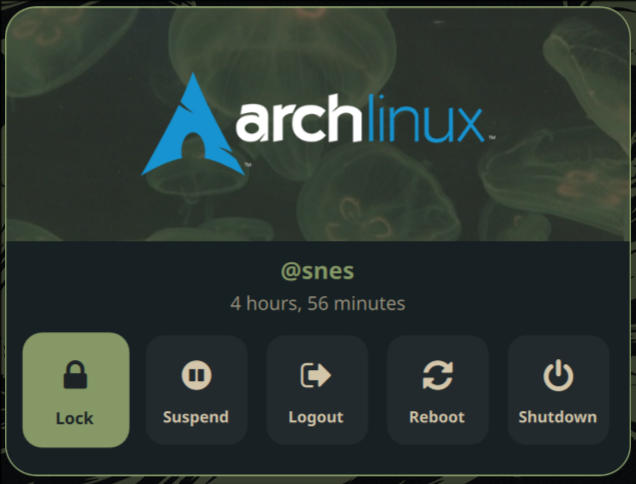
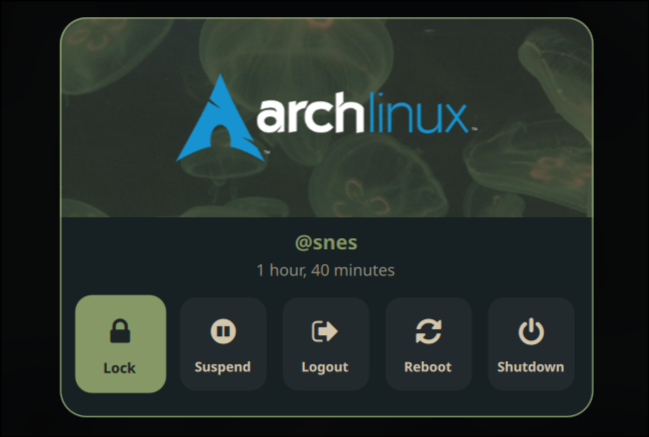
add improvements to the powermenu

diff --git a/.config/quickshell/snes-hub/bar/PowerMenu.qml b/.config/quickshell/snes-hub/bar/PowerMenu.qml
@@ -90,62 +90,64 @@ PanelWindow {
         width: 400
         height: 300
         
-        anchors.centerIn: parent
+        // To prevent fractional blur
+        x: Math.round((parent.width - width) / 2)
+        y: Math.round(((parent.height - height) / 2) + ((1 - Math.min(1, intro)) * 60))
+        
         focus: true
 
         // Entry animation progress
         property real intro: 0
         property real introBlur: 18
 
-    SequentialAnimation {
-        running: true
+        SequentialAnimation {
+            running: true
 
-        ParallelAnimation {
+            ParallelAnimation {
+                // Main intro: fade/slide/scale driver
+                PropertyAnimation {
+                    target: root
+                    property: "intro"
+                    from: 0
+                    to: 1
+                    duration: 260
+                    easing.type: Easing.OutExpo
+                }
 
-            // Main intro: fade/slide/scale driver
+                // Blur clears as it comes in
+                PropertyAnimation {
+                    target: root
+                    property: "introBlur"
+                    from: 18
+                    to: 0
+                    duration: 260
+                    easing.type: Easing.OutCubic
+                }
+            }
+
             PropertyAnimation {
                 target: root
                 property: "intro"
-                from: 0
-                to: 1
-                duration: 260
-                easing.type: Easing.OutExpo
+                from: 1
+                to: 1.06
+                duration: 90
+                easing.type: Easing.OutQuad
             }
-
-            // Blur clears as it comes in
             PropertyAnimation {
                 target: root
-                property: "introBlur"
-                from: 18
-                to: 0
-                duration: 260
+                property: "intro"
+                from: 1.06
+                to: 1
+                duration: 140
                 easing.type: Easing.OutCubic
             }
+
+            ScriptAction { script: root.forceActiveFocus() }
         }
 
-        PropertyAnimation {
-            target: root
-            property: "intro"
-            from: 1
-            to: 1.06
-            duration: 90
-            easing.type: Easing.OutQuad
-        }
-        PropertyAnimation {
-            target: root
-            property: "intro"
-            from: 1.06
-            to: 1
-            duration: 140
-            easing.type: Easing.OutCubic
-        }
-
-    ScriptAction { script: root.forceActiveFocus() }
-}
-    // Still entry animation
-    opacity: Math.min(1, intro)
-    scale: 0.88 + (0.12 * Math.min(1, intro))
-    y: Math.round((1 - Math.min(1, intro)) * 60)
+        // Apply opacity/scale based on intro
+        opacity: Math.min(1, intro)
+        scale: 0.88 + (0.12 * Math.min(1, intro))
 
         Keys.enabled: true
         Keys.priority: Keys.BeforeItem
@@ -157,7 +159,7 @@ PanelWindow {
         }
 
         property int currentIndex: 0
-        property int confirmIndex: 1 // 0 = No, 1 = Yes
+        property int confirmIndex: 1 
         property string pendingCmd: ""
         property string pendingLabel: ""
 
@@ -265,8 +267,15 @@ PanelWindow {
             Qt.quit()
         }
 
-        Rectangle { id: bgMask; anchors.fill: parent; radius: 20; visible: false }
+        // Mask Shape
+        Rectangle {
+            id: bgMask
+            anchors.fill: parent
+            radius: 20
+            visible: false
+        }
 
+        // Bottom Layer (Background + Image)
         Item {
             anchors.fill: parent
             layer.enabled: true
@@ -275,19 +284,9 @@ PanelWindow {
             Rectangle {
                 anchors.fill: parent
                 color: theme.card
-                
-
-                // so that clicking inside won't close
-                MouseArea {
-                    anchors.fill: parent
-                    hoverEnabled: false
-                    onPressed: (mouse) => mouse.accepted = true
-                    onClicked: (mouse) => mouse.accepted = true
-                }
             }
 
             Image {
-                id: headerImg
                 width: parent.width
                 height: 150
                 anchors.top: parent.top
@@ -295,20 +294,24 @@ PanelWindow {
                 fillMode: Image.PreserveAspectCrop
                 smooth: true
             }
-            Rectangle {
+        }
+
+        // Middle Layer: Content
+        Item {
+            anchors.fill: parent
+            z: 1 
+
+            // Prevent click-through
+            MouseArea {
                 anchors.fill: parent
-                radius: bgMask.radius
-                color: "transparent"
-                border.width: 1
-                border.color: win.isDarkMode ? '#d1a8c080' : '#435133'
-                antialiasing: true
-                z: 999
-                enabled: false
+                hoverEnabled: false
+                onPressed: (mouse) => mouse.accepted = true
+                onClicked: (mouse) => mouse.accepted = true
             }
 
             ColumnLayout {
-                anchors.top: headerImg.bottom
-                anchors.topMargin: 8
+                anchors.top: parent.top
+                anchors.topMargin: 158 // 150 (Image) + 8 (padding)
                 anchors.horizontalCenter: parent.horizontalCenter
                 spacing: 2
 
@@ -334,7 +337,7 @@ PanelWindow {
                 Text { id: userName; visible: false; text: "User" }
             }
 
-            // Fade between modes (icons <-> confirm)
+            // Mode 1: Icons
             Item {
                 anchors.fill: parent
                 opacity: root.pendingCmd === "" ? 1 : 0
@@ -349,7 +352,6 @@ PanelWindow {
 
                     Repeater {
                         model: root.buttonsModel
-
                         Rectangle {
                             Layout.preferredWidth: 65
                             Layout.preferredHeight: 70
@@ -371,7 +373,6 @@ PanelWindow {
                             ColumnLayout {
                                 anchors.centerIn: parent
                                 spacing: 4
-
                                 Text {
                                     text: modelData.icon
                                     font.family: "JetBrainsMono NF"
@@ -379,7 +380,6 @@ PanelWindow {
                                     color: (parent.parent.isActive || parent.parent.isHovered) ? theme.activeText : theme.text
                                     Layout.alignment: Qt.AlignHCenter
                                 }
-
                                 Text {
                                     text: modelData.label
                                     font.family: "Inter"
@@ -389,7 +389,6 @@ PanelWindow {
                                     Layout.alignment: Qt.AlignHCenter
                                 }
                             }
-
                             HoverHandler { id: hoverHandler; cursorShape: Qt.PointingHandCursor }
                             TapHandler {
                                 onTapped: {
@@ -402,6 +401,7 @@ PanelWindow {
                 }
             }
 
+            // Mode 2: Confirmation
             Item {
                 anchors.fill: parent
                 opacity: root.pendingCmd !== "" ? 1 : 0
@@ -425,17 +425,14 @@ PanelWindow {
 
                     RowLayout {
                         spacing: 15
-
                         Rectangle {
                             Layout.preferredWidth: 100
                             Layout.preferredHeight: 40
                             radius: 10
                             property bool isHovered: cancelHover.hovered
-
                             color: (root.confirmIndex === 0 || isHovered) ? theme.tileHover : theme.tile
                             border.width: 1
                             border.color: (root.confirmIndex === 0 || isHovered) ? theme.text : "transparent"
-
                             Text {
                                 anchors.centerIn: parent
                                 text: "No"
@@ -443,7 +440,6 @@ PanelWindow {
                                 font.weight: 600
                                 color: theme.text
                             }
-
                             HoverHandler { id: cancelHover; cursorShape: Qt.PointingHandCursor }
                             TapHandler {
                                 onTapped: {
@@ -453,17 +449,14 @@ PanelWindow {
                                 }
                             }
                         }
-
                         Rectangle {
                             Layout.preferredWidth: 100
                             Layout.preferredHeight: 40
                             radius: 10
                             property bool isHovered: confirmHover.hovered
-
                             color: (root.confirmIndex === 1 || isHovered)
                                 ? (root.isDestructive() ? theme.danger : theme.accent)
                                 : theme.tile
-
                             Text {
                                 anchors.centerIn: parent
                                 text: "Yes"
@@ -471,13 +464,24 @@ PanelWindow {
                                 font.weight: 700
                                 color: (root.confirmIndex === 1 || isHovered) ? theme.activeText : theme.text
                             }
-
                             HoverHandler { id: confirmHover; cursorShape: Qt.PointingHandCursor }
                             TapHandler { onTapped: root.run(root.pendingCmd) }
                         }
                     }
                 }
             }
+        }
+
+        // Top Layer: Just Border
+        Rectangle {
+            anchors.fill: parent
+            z: 2
+            radius: bgMask.radius
+            color: "transparent"
+            border.width: 1
+            border.color: win.isDarkMode ? '#d1a8c080' : '#435133'
+            antialiasing: true
+            enabled: false
         }
     }
 }

diff --git a/README.md b/README.md
@@ -325,7 +325,8 @@ khal list now 7d
 ## Power menu
 
 <p align="center">
-  <img src="media/screenshots/powermenu.png" width="300" alt="Quickshell Power Menu screenshot" />
+  <img src="media/screenshots/powermenu.png" height="300" alt="Quickshell Power Menu screenshot (Dark)" />
+  <img src="media/screenshots/powermenu_light.png" height="300" alt="Quickshell Power Menu screenshot (Light)" />
 </p>
 
 wlr-layershell power menu overlay (separate from the hub header menu). Toggled with ALT+F4
